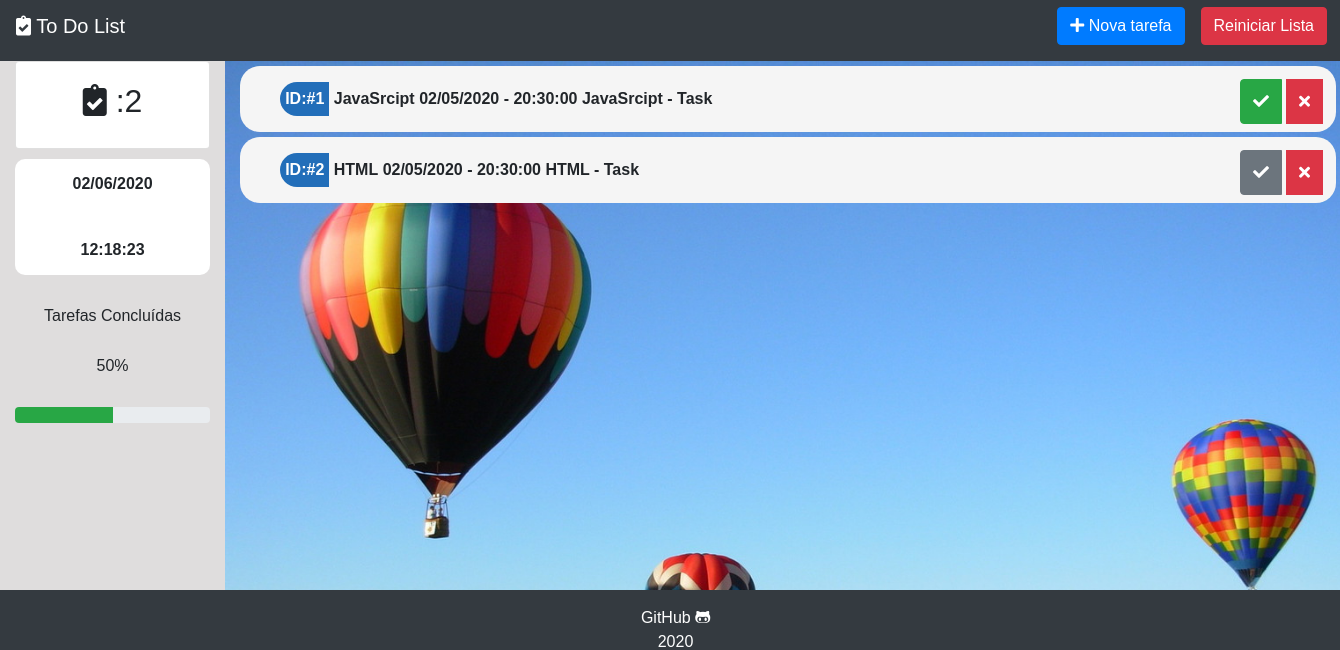
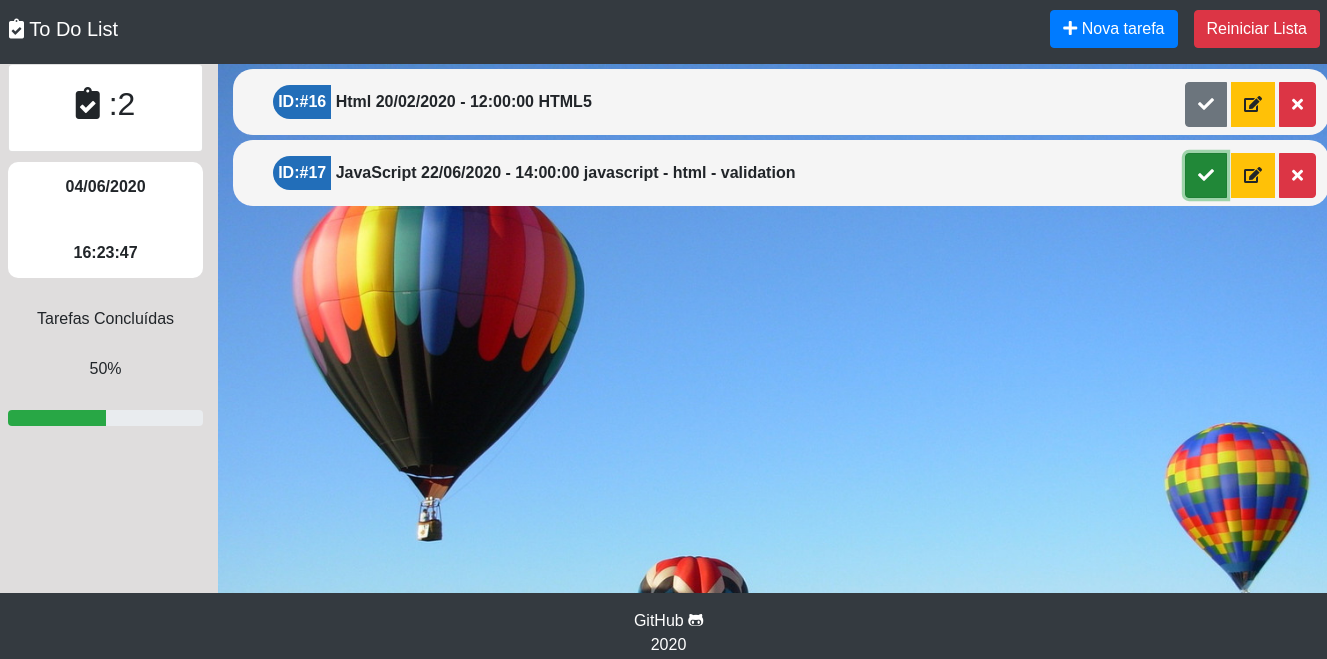
edit function

diff --git a/js/IndexedDB/IndexedDB.js b/js/IndexedDB/IndexedDB.js
@@ -61,9 +61,9 @@ let cursor = (target) => {
                         </ul>
                         <div class="btn-toolbar ml-auto " role="toolbar" aria-label="Toolbar with button groups">
                             <div class="btn-group mr-2" role="group" aria-label="First group">
-                            <button type="button" onclick="display.taskDone(this)"class="btn btn-success btnG status"><i class="fas fa-check"></i></button>
-                            <button type="button" onclick="display.deleteTask(this)"class="btn btn-danger btnG"><i class="fas fa-times"></i></button>
-                            <div style="display:none;">${cursor.value.id}</di>
+                            <button type="button" onclick="newTask.taskDone(${cursor.value.id},this)"class="btn btn-success btnG status"><i class="fas fa-check"></i></button>
+                            <button type="button" onclick="newTask.editTask(${cursor.value.id},this)"class="btn btn-warning btnG"><i class="fas fa-edit"></i></button>
+                            <button type="button" onclick="newTask.deleteTask(${cursor.value.id},this)"class="btn btn-danger btnG"><i class="fas fa-times"></i></button>
                         </div>
                 </div>
             `
@@ -80,9 +80,9 @@ let cursor = (target) => {
                         </ul>
                         <div class="btn-toolbar ml-auto " role="toolbar" aria-label="Toolbar with button groups">
                             <div class="btn-group mr-2" role="group" aria-label="First group">
-                            <button type="button" onclick="display.taskDone(this)"class="btn btn-secondary btnG status"><i class="fas fa-check"></i></button>
-                            <button type="button" onclick="display.deleteTask(this)"class="btn btn-danger btnG"><i class="fas fa-times"></i></button>
-                            <div style="display:none;">${cursor.value.id}</di>
+                            <button type="button" onclick="newTask.taskDone(${cursor.value.id},this)"class="btn btn-secondary btnG status"><i class="fas fa-check"></i></button>
+                            <button type="button" onclick="newTask.editTask(${cursor.value.id},this)"class="btn btn-warning btnG"><i class="fas fa-edit"></i></button>
+                            <button type="button" onclick="newTask.deleteTask(${cursor.value.id},this)"class="btn btn-danger btnG"><i class="fas fa-times"></i></button>
                         </div>
                 </div>
              `
@@ -105,7 +105,7 @@ let cursor = (target) => {
 
 };
 
-/*Update*/
+/*Update Status*/
 let update = (id) =>{ 
 
     let transaction = db.transaction(["toDotask"],"readwrite");
@@ -130,6 +130,65 @@ let update = (id) =>{
     };
 
 };
+
+/*Update Task*/
+let updateT = (id) =>{ 
+
+    let transaction = db.transaction(["toDotask"],"readwrite");
+    let store = transaction.objectStore("toDotask");
+    var request = store.get(id);
+    request.onerror = (event) =>{ console.log('Erro');};
+    request.onsuccess = (event) => {
+        
+        let data = request.result;
+        
+        console.log(data);
+
+        modalTask.fadein();
+
+        modalTask.formTask.tarefa.value = data.task;
+        modalTask.formTask.data.value = data.data;
+        modalTask.formTask.obs.value = data.obs;
+        modalTask.formTask.edit.style = "";
+
+        modalTask.formTask.edit.addEventListener("click",event =>{
+            event.preventDefault();
+            if(new Date(modalTask.formTask.data.value) == "Invalid Date"){
+                modalTask.msrgDisplay(`<div class="alert-danger ">Por favor, informe uma
+                data valida</div>`,modalTask.msgArea);
+                return;
+            }
+            let transaction = db.transaction(["toDotask"],"readwrite");
+            let store = transaction.objectStore("toDotask");
+
+            request.onerror = (event) =>{ console.log('Erro');};
+            request.onsuccess = (event) => {console.log('sucesso');}
+
+            data.task = modalTask.formTask.tarefa.value;
+            data.data = modalTask.formTask.data.value;
+            data.obs =  modalTask.formTask.obs.value;
+
+            if(confirm('alterar os dados?')){
+
+                let updateRequest = store.put(data);
+                updateRequest.onerror = (event) =>{
+                    console.log(event);
+                };
+                updateRequest.onsuccess = (event) =>{
+                    console.log('seucesso');
+                    modalTask.formTask.edit.style = "display:none";
+                    location.reload(true);
+                   };
+        
+            }
+         
+        });
+       
+       
+    };
+
+};
+
 
 /*delete*/
 let deleteR = (id) =>{ 

diff --git a/index.html b/index.html
@@ -78,8 +78,10 @@
                                         <div class="msg alert">
         
                                         </div>
+                                        <button type="reset" class="btn btn-warning mt-3" style="display:none" id="edit">Editar</button>
                                         <button class="btn btn-primary mt-3" id="include">Incluir</button>
-                                        <button type="reset" class="btn btn-warning mt-3" id="reset">limpar</button>
+                                        <button type="reset" class="btn btn-secondary mt-3" id="reset">limpar</button>
+                                
                                     </div>
                             
                                 </div>
@@ -100,9 +102,10 @@
        
 
     </footer>
-    <script src="js/IndexedDB/ IndexedDB.js"></script>
+    <script src="js/IndexedDB/IndexedDB.js"></script>
     <script src="js/models/modal.js"></script>
     <script src="./js/models/display.js"></script>
+    <script src="./js/models/task.js"></script>
     <script src="./js/controller.js"></script>
 </body>
 </html>

diff --git a/js/models/task.js b/js/models/task.js
@@ -1,0 +1,36 @@
+class Task {
+    constructor(){
+
+    }
+    deleteTask(value,self){
+        if(confirm(`Excluir tarefa #${value}?`)){
+            ids = ids.filter(filter => filter != value);
+            deleteR(parseInt(value));
+            self.parentNode.children[0].classList.remove('btn-success');
+            self.parentNode.parentNode.parentNode.style ="display:none"
+        } 
+       
+    };
+
+    taskDone(value,self){
+        if([...self.classList].includes('btn-secondary')){
+            self.classList.remove('btn-secondary');
+            self.classList.add('btn-success');
+            update(parseInt(value))
+            
+        }else{
+            self.classList.add('btn-secondary');
+            self.classList.remove('btn-success');
+            update(parseInt(value))
+        }
+      
+        
+    };
+
+    editTask(value){
+        updateT(value);
+    }
+
+    
+}
+

diff --git a/js/models/display.js b/js/models/display.js
@@ -63,28 +63,5 @@ class Display {
 
     }
 
-    taskDone(value){
-        if([...value.classList].includes('btn-secondary')){
-            value.classList.remove('btn-secondary');
-            value.classList.add('btn-success');
-            update(parseInt(value.parentNode.children[2].innerHTML))
-            
-        }else{
-            value.classList.add('btn-secondary');
-            value.classList.remove('btn-success');
-            update(parseInt(value.parentNode.children[2].innerHTML))
-        }
-      
-        
-    };
-
-    deleteTask(value){
-    
-        ids = ids.filter(filter => filter != value.parentNode.children[2].innerHTML);
-        deleteR(parseInt(value.parentNode.children[2].innerHTML));
-        value.parentNode.children[0].classList.remove('btn-success');
-        value.parentNode.parentNode.parentNode.style ="display:none"
-    };
-
 
 }

diff --git a/js/models/modal.js b/js/models/modal.js
@@ -21,7 +21,6 @@ class Modal {
      
     }
 
-
     //get informations from form
     get getTask(){
 
@@ -41,6 +40,12 @@ class Modal {
         this.btnInclude.addEventListener("click", event =>{
             event.preventDefault();
             
+            if(new Date(this.formTask.data.value) == "Invalid Date"){
+                this.msrgDisplay(`<div class="alert-danger ">Por favor, informe uma
+                data valida</div>`,this.msgArea);
+                return;
+            }
+
             if(this.formTask.tarefa.value == "" || this.formTask.data.value   == ""){ 
                 this.msrgDisplay(`<div class="alert-danger ">Por favor, informe a
                  data de entrega e o nome da tarefa</div>`,this.msgArea);

diff --git a/js/controller.js b/js/controller.js
@@ -24,3 +24,5 @@ MainModal[2].include,MainModal[2].reset,formTask,msgArea,clear);
 
 let display = new Display(displaytime,taskList,sideMenu,taskCard,progress,progressP);
 
+let newTask = new Task();
+
